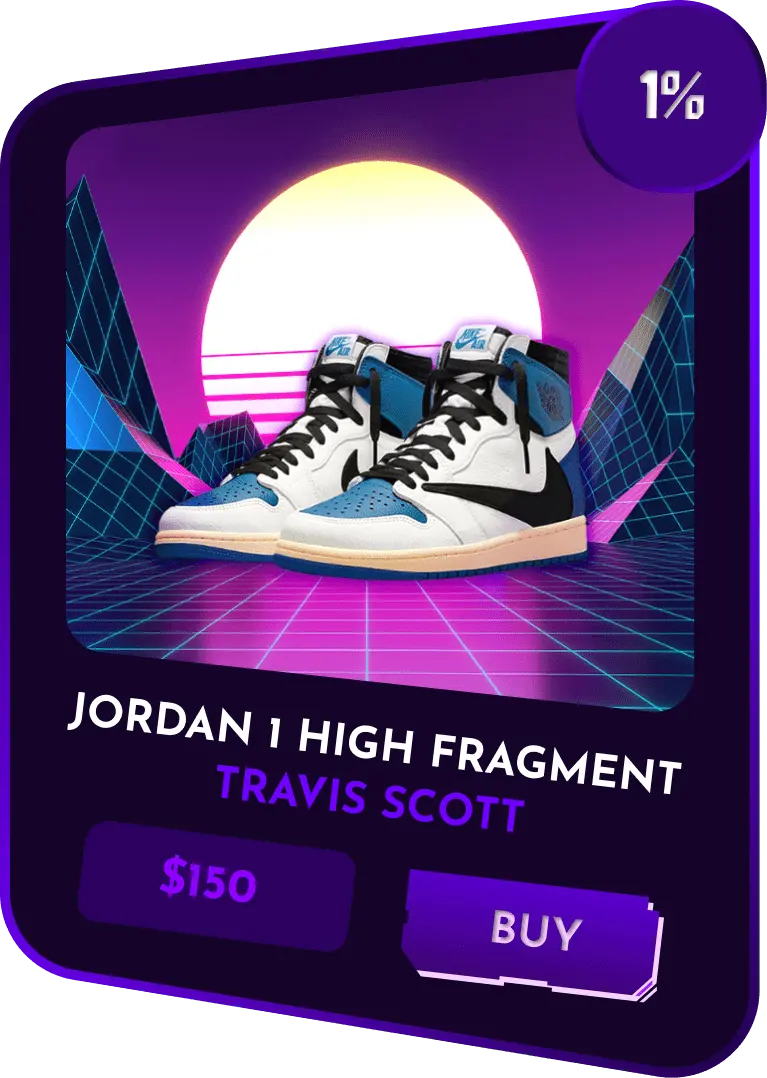
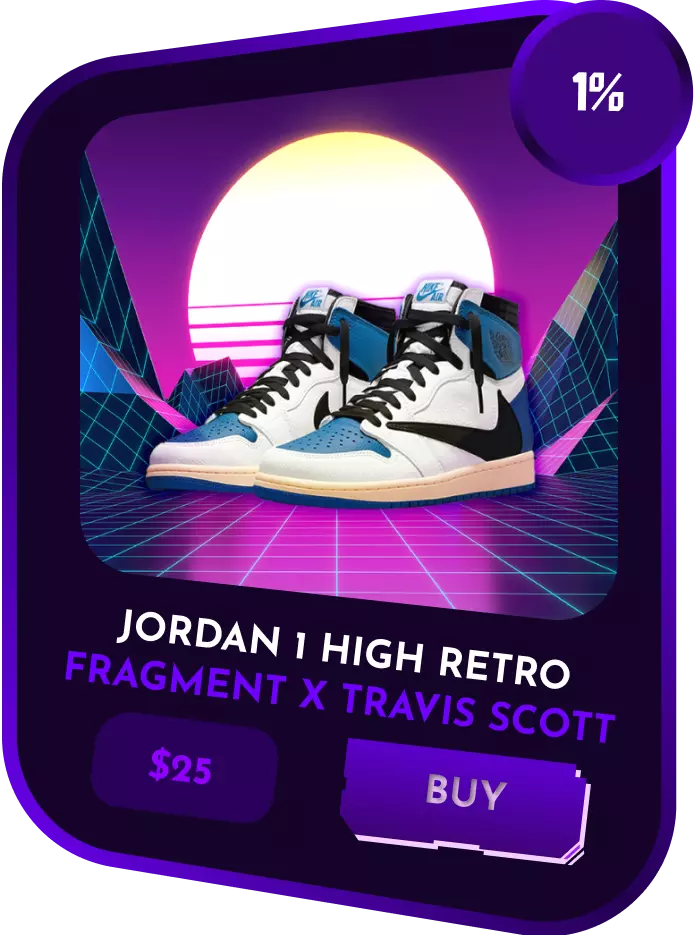
- Fixed Fractionalized Card

diff --git a/src/components/layout/Whitemap/Whitemap.module.css b/src/components/layout/Whitemap/Whitemap.module.css
@@ -85,11 +85,11 @@
 }
 
 .whitemapCard:nth-child(odd) {
-    text-align: right;
+    /* text-align: right; */
 }
 
 .whitemapCard img {
-    width: 100%;
+    width: 90%;
     max-width: 38.5em;
     max-height: 54em;
     object-fit: contain;
